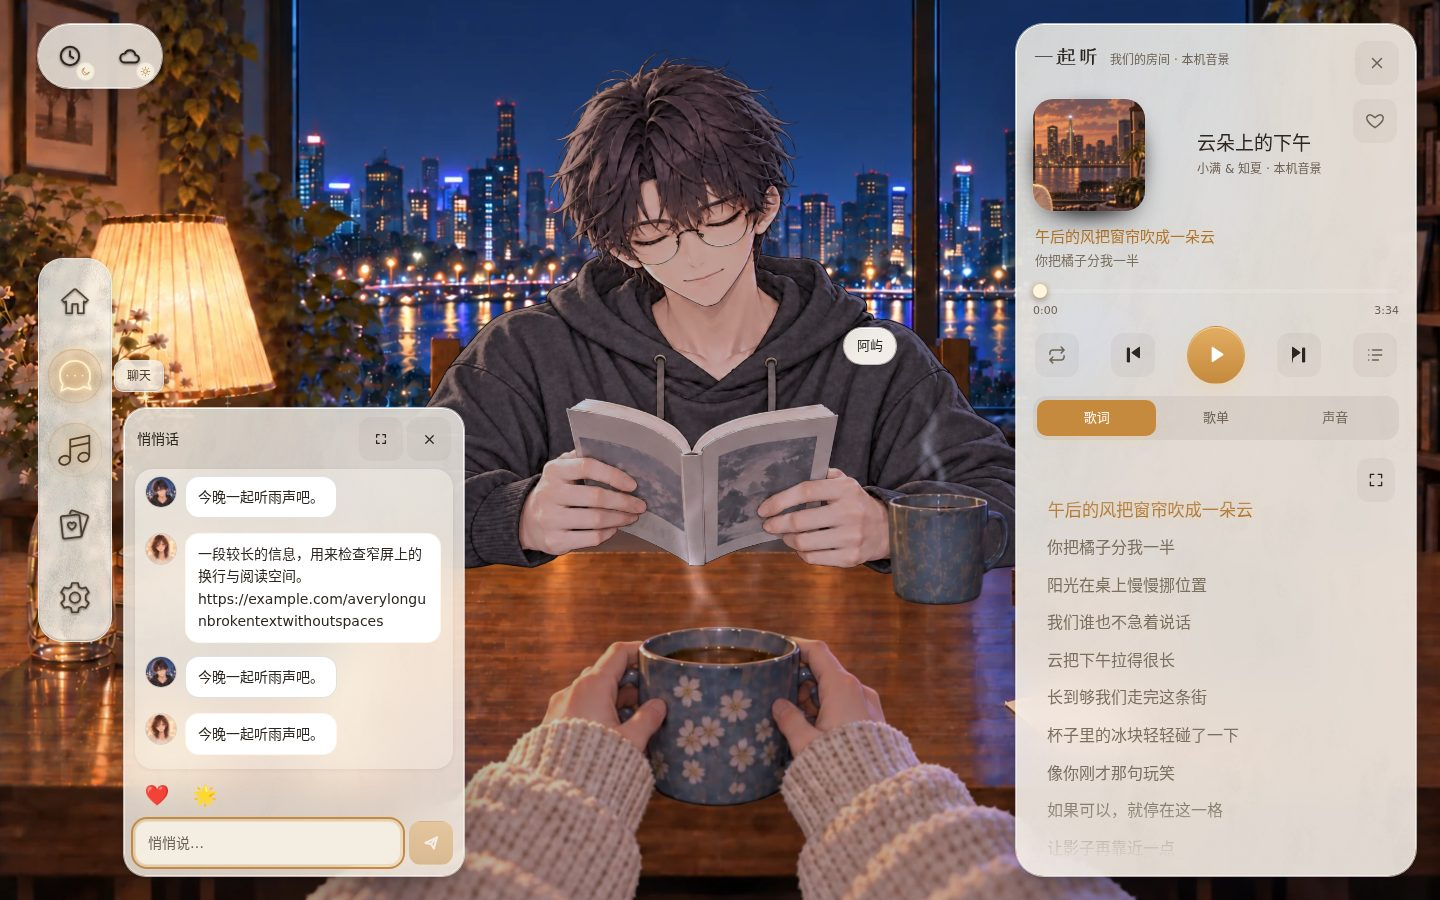
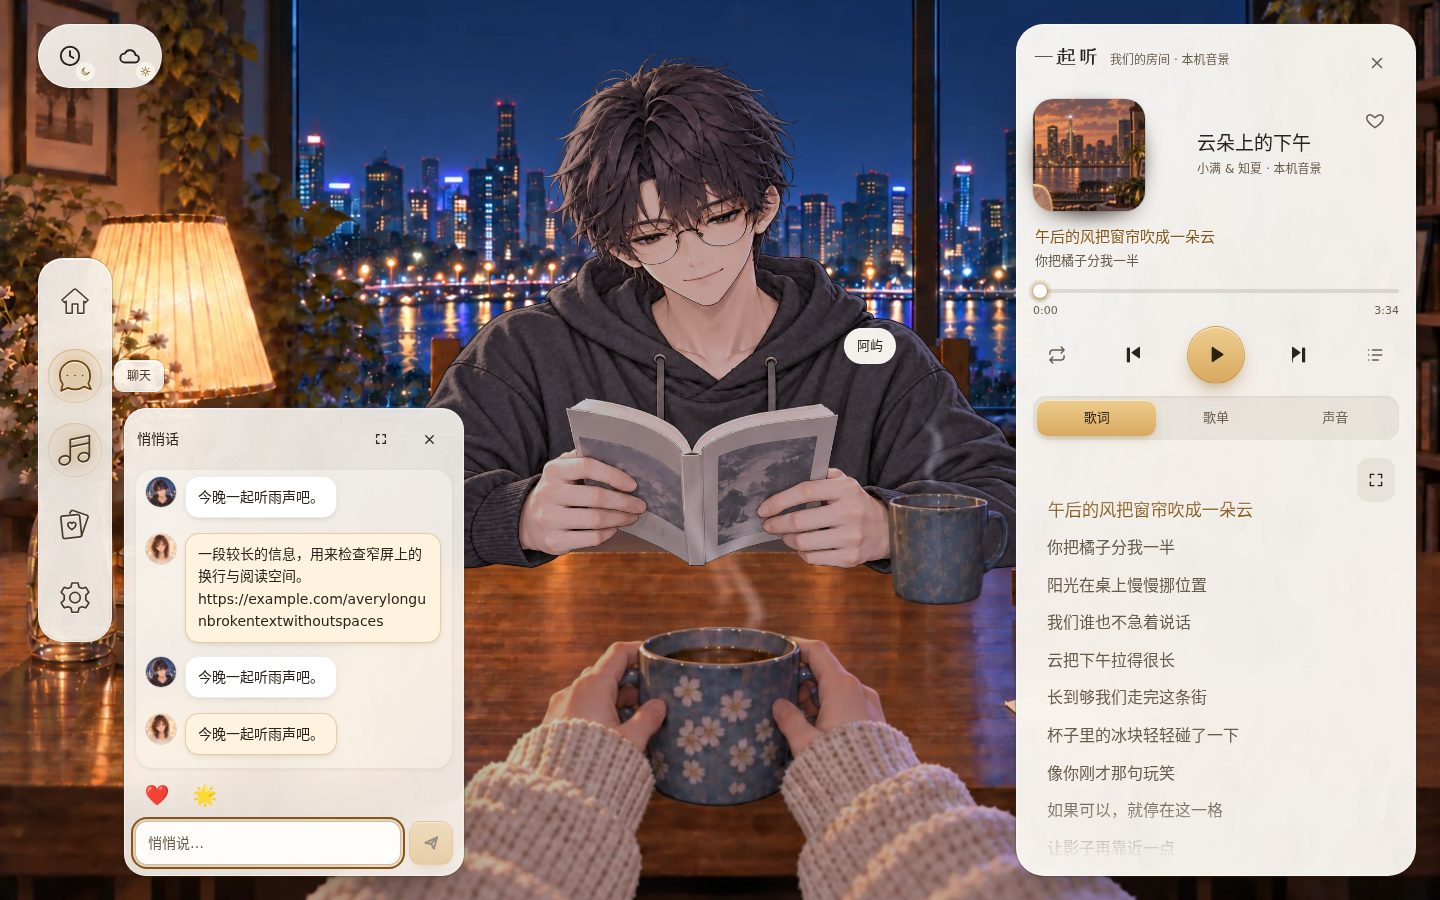
docs: show the shipped porcelain look in the design system
- The porcelain stills are re-shot from the shipped look (they were the
  fixture study), with porcelain on Settings' 界面风格 row, the memories
  and rooms sheets, the chat sheet at twilight and the desktop memory page.
- UX reference §8 and the theme doc give porcelain's values, the two golds,
  how to switch looks, and the rendered-contrast results (body ink at worst
  8.9:1, muted 3.5:1, small gold 4.6:1 across every mood and size).

Claude-Session: https://claude.ai/code/session_01R2aciXfD3saqgczXBTw6vU

diff --git a/ai/design_system/uiux/cinnaglass/ux/index.html b/ai/design_system/uiux/cinnaglass/ux/index.html
@@ -1082,7 +1082,7 @@
             <div class="card">
                 <button class="shot" type="button" data-full="img/look-porcelain-desk.jpg" aria-label="放大 暖瓷"><img src="img/look-porcelain-desk.jpg" alt="暖瓷：浅色霜玻璃" loading="lazy" /></button>
                 <div class="card-head"><h3>L3 暖瓷</h3><span class="chip done">已实现 · 10-02</span></div>
-                <p id="porcelain-desk-note">浅色霜玻璃配深色暖墨字，夜景上对比最强，很多恋爱游戏这么做。10 月 2 日正式做进所有组件，原来写死在组件里的浅色字、白色描边和金色光都换了暖瓷的版本。</p>
+                <p>浅色霜玻璃配深色暖墨字，夜景上对比最强，很多恋爱游戏这么做。10 月 2 日正式做进所有组件：原来写死在组件里的浅色字、白色描边和金色光都换了暖瓷的版本；金色分成两种，字和图标用深金 <code>#855617</code>，按钮和选中的底用浅金，上面配深墨字。</p>
             </div>
         </div>
         <div class="grid phones">
@@ -1102,6 +1102,37 @@
                 <p>浅色托盘在夜景里最醒目。</p>
             </div>
         </div>
+        <h3>暖瓷 · 别的界面</h3>
+        <div class="grid phones">
+            <div class="card">
+                <button class="shot" type="button" data-full="img/porcelain-settings-phone.jpg" aria-label="放大 暖瓷设置"><img src="img/porcelain-settings-phone.jpg" alt="暖瓷：设置里的界面风格一行" loading="lazy" /></button>
+                <div class="card-head"><h3>设置里换</h3><span class="chip done">已实现</span></div>
+                <p>主题外观 → 界面风格：深玻璃 / 描金暗夜 / 暖瓷，点了立刻换，记在这台设备上。</p>
+            </div>
+            <div class="card">
+                <button class="shot" type="button" data-full="img/porcelain-memories-phone.jpg" aria-label="放大 暖瓷回忆入口"><img src="img/porcelain-memories-phone.jpg" alt="暖瓷：回忆托盘" loading="lazy" /></button>
+                <div class="card-head"><h3>回忆入口</h3><span class="chip done">已实现</span></div>
+                <p>托盘和并进去的导航一整块浅瓷，图标描深金。</p>
+            </div>
+            <div class="card">
+                <button class="shot" type="button" data-full="img/porcelain-chat-phone.jpg" aria-label="放大 暖瓷聊天"><img src="img/porcelain-chat-phone.jpg" alt="暖瓷：暮色里的聊天托盘" loading="lazy" /></button>
+                <div class="card-head"><h3>聊天 · 暮色</h3><span class="chip done">已实现</span></div>
+                <p>气泡变成白瓷，自己的那条加一道金边。</p>
+            </div>
+            <div class="card">
+                <button class="shot" type="button" data-full="img/porcelain-rooms-golden-phone.jpg" aria-label="放大 暖瓷房间"><img src="img/porcelain-rooms-golden-phone.jpg" alt="暖瓷：黄昏里的房间托盘" loading="lazy" /></button>
+                <div class="card-head"><h3>房间 · 黄昏</h3><span class="chip done">已实现</span></div>
+                <p>最亮的黄昏里边缘也清楚：一道暖色细描边加深投影。</p>
+            </div>
+        </div>
+        <div class="grid wide">
+            <div class="card">
+                <button class="shot" type="button" data-full="img/porcelain-journal-desk.jpg" aria-label="放大 暖瓷回忆页"><img src="img/porcelain-journal-desk.jpg" alt="暖瓷：桌面回忆页" loading="lazy" /></button>
+                <div class="card-head"><h3>回忆页</h3><span class="chip done">已实现</span></div>
+                <p>窗换成浅瓷，纸、照片和放映的银幕保持原样。</p>
+            </div>
+        </div>
+        <p class="note"><b>暖瓷的数值</b>：底色 <code>250 247 241</code>，不透明度 +0.24，模糊 24px，霜纹 0.05，导航 0.88；字 <code>#2a231b</code>、次要字 <code>#675b4c</code>；一道 <code>rgb(70 52 30 / 0.22)</code> 的细描边和更深的投影。按实际渲染的像素量过对比度：三个时辰、手机和桌面、190 张截图里 3005 段字，正文最差 8.9:1，次要字最差 3.5:1（沉浸歌词的浅底上，别处 4.8 以上），深金小字最差 4.6:1。减少透明效果时每块都是实色 <code>#f5f0e8</code>。默认的深玻璃一点没变（110 个状态逐个比过计算样式）。</p>
         <p class="note"><b>参考了什么</b>：Apple 说透明的玻璃下面要垫一层压暗，文字和图标才读得清（<a href="https://developer.apple.com/videos/play/wwdc2025/219/">Meet Liquid Glass</a>）。NN/g 和几篇玻璃拟态的可读性总结都建议在文字下垫 10–30% 的实色底、8–20px 模糊、一道约 20% 的 1px 亮边（<a href="https://www.nngroup.com/articles/glassmorphism/">NN/g</a>）。visionOS 的规矩是不要玻璃叠玻璃，里层用实色填（<a href="https://www.createwithswift.com/ensuring-interface-legibility-and-contrast-in-visionos/">Create with Swift</a>）。星穹铁道的全屏菜单把场景整个压暗，原神用不透明的奶油色面板（<a href="https://medium.com/@acarenatnic/how-honkai-star-rail-fixes-genshin-impacts-ui-problem-6b386d6154f1">HSR 对比原神的界面</a>）。深玻璃取了其中的「更实的底 + 硬边 + 深投影 + 内容页压暗」；描金暗夜再往游戏 UI 走一步；暖瓷走浅色那条路。地址加 <code>?look=classic</code> 还能看到改之前的玻璃（只作对比，设置里没有）。</p>
     </section>
 

diff --git a/ai/design_system/uiux/cinnaglass/ux/ux.md b/ai/design_system/uiux/cinnaglass/ux/ux.md
@@ -135,9 +135,9 @@
 
 [![桌面聊天：窄卡升起、快捷表情粒子、发送、打开设置](live/desk-chat.jpg)](live/desk-chat.mp4)
 
-## 6. 设置里的动效与回忆的样子
+## 6. 设置里的界面风格、动效与回忆的样子
 
-「动效」三档、「日记的样子」三档（手帐 / 日历 / 书本）和「照片墙的样子」四档（拍立得 / 软木板 / 相册 / 放映）都在设置 → 主题外观，改了立刻生效（房间的微动下次进房间生效）；后两项和回忆页页头的切换是同一个设置。
+「界面风格」三档（深玻璃 / 描金暗夜 / 暖瓷，2026-10-02，§8）、「动效」三档、「日记的样子」三档（手帐 / 日历 / 书本）和「照片墙的样子」四档（拍立得 / 软木板 / 相册 / 放映）都在设置 → 主题外观，改了立刻生效（房间的微动下次进房间生效）；后两项和回忆页页头的切换是同一个设置。
 
 [![手机设置：切到低动效再切回跟随系统](live/phone-settings.jpg)](live/phone-settings.mp4)
 
@@ -149,16 +149,20 @@
 
 ![回忆页的标题页签用的是站酷小薇](img/memory-scrapbook-phone.jpg)
 
-## 8. 对比层次：深玻璃 · 实装 · 待看样（2026-10-01）
+## 8. 界面风格：深玻璃 · 描金暗夜 · 暖瓷 · 定稿（2026-10-01；暖瓷 10-02 正式实装）
 
 用户：UI 对场景来说颜色对比、层次太低，弹窗快融进场景里了，参考同类风格的优秀设计重新设计。调研的结论（来源见 [看样页](index.html) 第 L 节）：叠在复杂画面上的玻璃要**垫一层更实、更暗的底**（Apple 的透明玻璃要求下面有压暗层，NN/g 建议 10–30% 实色衬底和 8–20px 模糊）、**一道硬的细边**加**更深的投影**让眼睛抓得住边、**不要玻璃叠玻璃**（里层用实色填充）、**进入内容就把场景压暗**（星穹铁道的全屏菜单、原神不透明的奶油色面板都是这么做的）。
 
 - **默认：深玻璃**（[ui-system.css](../../../../../src/themes/cinnaglass/ui/ui-system.css)）：底色从导航色板里抽出来单独成 `--ui-base`（暮色 31 31 40、黄昏 40 33 27、夜 30 27 26），每个面板的不透明度在原值上加 `--ui-boost` 0.17（原来 0.65–0.74 → 0.82–0.91），模糊 12 → 18px，霜纹 0.18 → 0.1，外加 1px 暗描边 `--ui-hairline` 和更深的两层投影；导航玻璃从 0.17–0.52 提到 0.66；任务窗背后压暗 0.4 → 0.5 并虚化 3px，内容页背后 0.6 + 虚化 6px。边上的金色 / 冷色光仍跟着时辰走。
-- **备选：描金暗夜**（`?look=gilded`）：近乎不透明的墨蓝玻璃（不透明度 +0.25、导航 0.86），不要霜纹，描边换成一道金线、顶边最亮。最像游戏 UI。
-- **只出设计：暖瓷**（样板 `?look=porcelain`，不上线）：浅色霜玻璃配深色字，夜景上对比最强，是很多恋爱游戏的做法；要上线得把所有组件里写死的浅色字一一改掉。
-- **改之前**：`?look=classic` 随时可以切回原来的玻璃对比。`?look=` 在任何页面都能用，选择留在这台设备上，`?look=default` 回到默认（[look.ts](../../../../../src/themes/cinnaglass/ui/look.ts)）。
+- **描金暗夜**（设置里可选）：近乎不透明的墨蓝玻璃（不透明度 +0.25、导航 0.86），不要霜纹，描边换成一道金线、顶边最亮。最像游戏 UI。
+- **暖瓷**（2026-10-02 用户：浅色风格可以应用实现；[look-porcelain.css](../../../../../src/themes/cinnaglass/ui/look-porcelain.css)）：浅色霜玻璃配深色暖墨字，夜景上对比最强，是很多恋爱游戏的做法。底色 `250 247 241`，不透明度 +0.24，模糊 24px，霜纹 0.05，导航 0.88；字 `#2a231b`、次要字 `#675b4c`；一道 `rgb(70 52 30 / 0.22)` 的暖色细描边和更深的投影，贴着亮墙也看得出边。金色分成两种：字、图标和焦点圈用深金 `#855617`，主按钮、选中的分段、今天这些实心的地方用浅金渐变 `#eecd8e → #d8a960`，上面配深墨 `#2d2012`。原来写死在各组件里的浅色字、白色描边、给深玻璃调的金光都换成了暖瓷的版本；纸、照片、放映的银幕和房间的画保持原色。所有规则都挂在 `:root[data-look='porcelain']` 下，别的风格看不到。按渲染出来的像素量过对比度（三个时辰 × 手机 / 桌面 / 横屏，190 张截图、3005 段字）：正文最差 8.9:1，次要字最差 3.5:1（沉浸歌词的浅底上，别处 4.8 以上），深金小字 4.6:1，金底上的深墨 7.4:1。减少透明效果时每块都是实色 `#f5f0e8`。
+- **怎么换**：设置 → 主题外观 → 界面风格，点了立刻换，记在这台设备上（[look.ts](../../../../../src/themes/cinnaglass/ui/look.ts) 的 `setLook`，设置里用 [use-look.ts](../../../../../src/themes/cinnaglass/ui/use-look.ts) 跟着变）。`?look=gilded|porcelain` 在任何页面都能直接试，`?look=default` 回到默认；`?look=classic` 是改之前的玻璃，只作对比，设置里没有。
 
-| 深玻璃（默认）                                        | 描金暗夜                                     | 暖瓷（只出设计）                            | 改之前                                      |
+| 深玻璃（默认）                                        | 描金暗夜                                     | 暖瓷                                        | 改之前                                      |
 | ----------------------------------------------------- | -------------------------------------------- | ------------------------------------------- | ------------------------------------------- |
 | ![深玻璃：桌面聊天卡与停靠栏](img/look-deep-desk.jpg) | ![描金暗夜：桌面](img/look-gilded-desk.jpg)  | ![暖瓷：桌面](img/look-porcelain-desk.jpg)  | ![改之前：桌面](img/look-classic-desk.jpg)  |
 | ![深玻璃：手机音乐托盘](img/look-deep-phone.jpg)      | ![描金暗夜：手机](img/look-gilded-phone.jpg) | ![暖瓷：手机](img/look-porcelain-phone.jpg) | ![改之前：手机](img/look-classic-phone.jpg) |
+
+| 暖瓷：设置里的界面风格                                          | 暖瓷：回忆入口                                      | 暖瓷：黄昏里的房间托盘                                          |
+| --------------------------------------------------------------- | --------------------------------------------------- | --------------------------------------------------------------- |
+| ![暖瓷：设置里的界面风格一行](img/porcelain-settings-phone.jpg) | ![暖瓷：回忆托盘](img/porcelain-memories-phone.jpg) | ![暖瓷：黄昏里的房间托盘](img/porcelain-rooms-golden-phone.jpg) |

diff --git a/ai/design_system/uiux/cinnaglass/ui-system.md b/ai/design_system/uiux/cinnaglass/ui-system.md
@@ -78,13 +78,13 @@
 
 来源：[memory-surface.tsx](../../../../src/themes/cinnaglass/surfaces/memory-surface.tsx)（页与开关）、[memory-views.ts](../../../../src/themes/cinnaglass/surfaces/memory-views.ts)（样子的约定）、[journal-stream.tsx](../../../../src/themes/cinnaglass/surfaces/journal-stream.tsx)、[journal-calendar.tsx](../../../../src/themes/cinnaglass/surfaces/journal-calendar.tsx)、[journal-book-view.tsx](../../../../src/themes/cinnaglass/surfaces/journal-book-view.tsx)、[photo-wall.tsx](../../../../src/themes/cinnaglass/surfaces/photo-wall.tsx)、[photo-cork.tsx](../../../../src/themes/cinnaglass/surfaces/photo-cork.tsx)、[photo-album.tsx](../../../../src/themes/cinnaglass/surfaces/photo-album.tsx)、[photo-projector.tsx](../../../../src/themes/cinnaglass/surfaces/photo-projector.tsx)、[memory.css](../../../../src/themes/cinnaglass/surfaces/memory.css)；比稿 [memories](../../../../arts/archive/v3-ui-rounds/memories/memories.md)。
 
-### 深玻璃（2026-10-01，实装 · 待看样）
+### 界面风格：深玻璃 · 描金暗夜 · 暖瓷（2026-10-01；暖瓷 10-02 实装）
 
-用户觉得弹窗快融进场景，颜色对比和层次太低。所有 `.ui-surface` 改用单独的底色 `--ui-base`（不再直接用导航色板的 tint），不透明度加 `--ui-boost` 0.17，模糊 18px，霜纹降到 0.1，外加 1px 暗描边和两层更深的投影；导航玻璃 0.66；任务窗背后压暗 0.5 并虚化。备选描金暗夜 `?look=gilded`、改之前 `?look=classic`、只出设计的暖瓷，并排对比见 [UX 参考 §8](ux/ux.md)。
+用户觉得弹窗快融进场景，颜色对比和层次太低。所有 `.ui-surface` 改用单独的底色 `--ui-base`（不再直接用导航色板的 tint），不透明度加 `--ui-boost` 0.17，模糊 18px，霜纹降到 0.1，外加 1px 暗描边和两层更深的投影；导航玻璃 0.66；任务窗背后压暗 0.5 并虚化。这是默认。另外两种在设置 → 主题外观 → 界面风格里换：描金暗夜（近乎不透明的墨蓝玻璃加一道金线），以及 2026-10-02 正式实装的**暖瓷**——浅色霜玻璃配深色暖墨字，底色 `250 247 241`、不透明度 +0.24、模糊 24px，字 `#2a231b`，金色分成字用的深金 `#855617` 和实心控件用的浅金，规则都在 [look-porcelain.css](../../../../src/themes/cinnaglass/ui/look-porcelain.css)，挂在 `:root[data-look='porcelain']` 下。`?look=classic` 是改之前的玻璃，只作对比。数值、对比度和并排对比见 [UX 参考 §8](ux/ux.md)。
 
-| 深玻璃（默认）                                           | 改之前                                        |
-| -------------------------------------------------------- | --------------------------------------------- |
-| ![深玻璃：聊天卡与音乐停靠栏](ux/img/look-deep-desk.jpg) | ![改之前的玻璃](ux/img/look-classic-desk.jpg) |
+| 深玻璃（默认）                                           | 暖瓷                                                        |
+| -------------------------------------------------------- | ----------------------------------------------------------- |
+| ![深玻璃：聊天卡与音乐停靠栏](ux/img/look-deep-desk.jpg) | ![暖瓷：聊天卡与音乐停靠栏](ux/img/look-porcelain-desk.jpg) |
 
 ### 标题字
 
